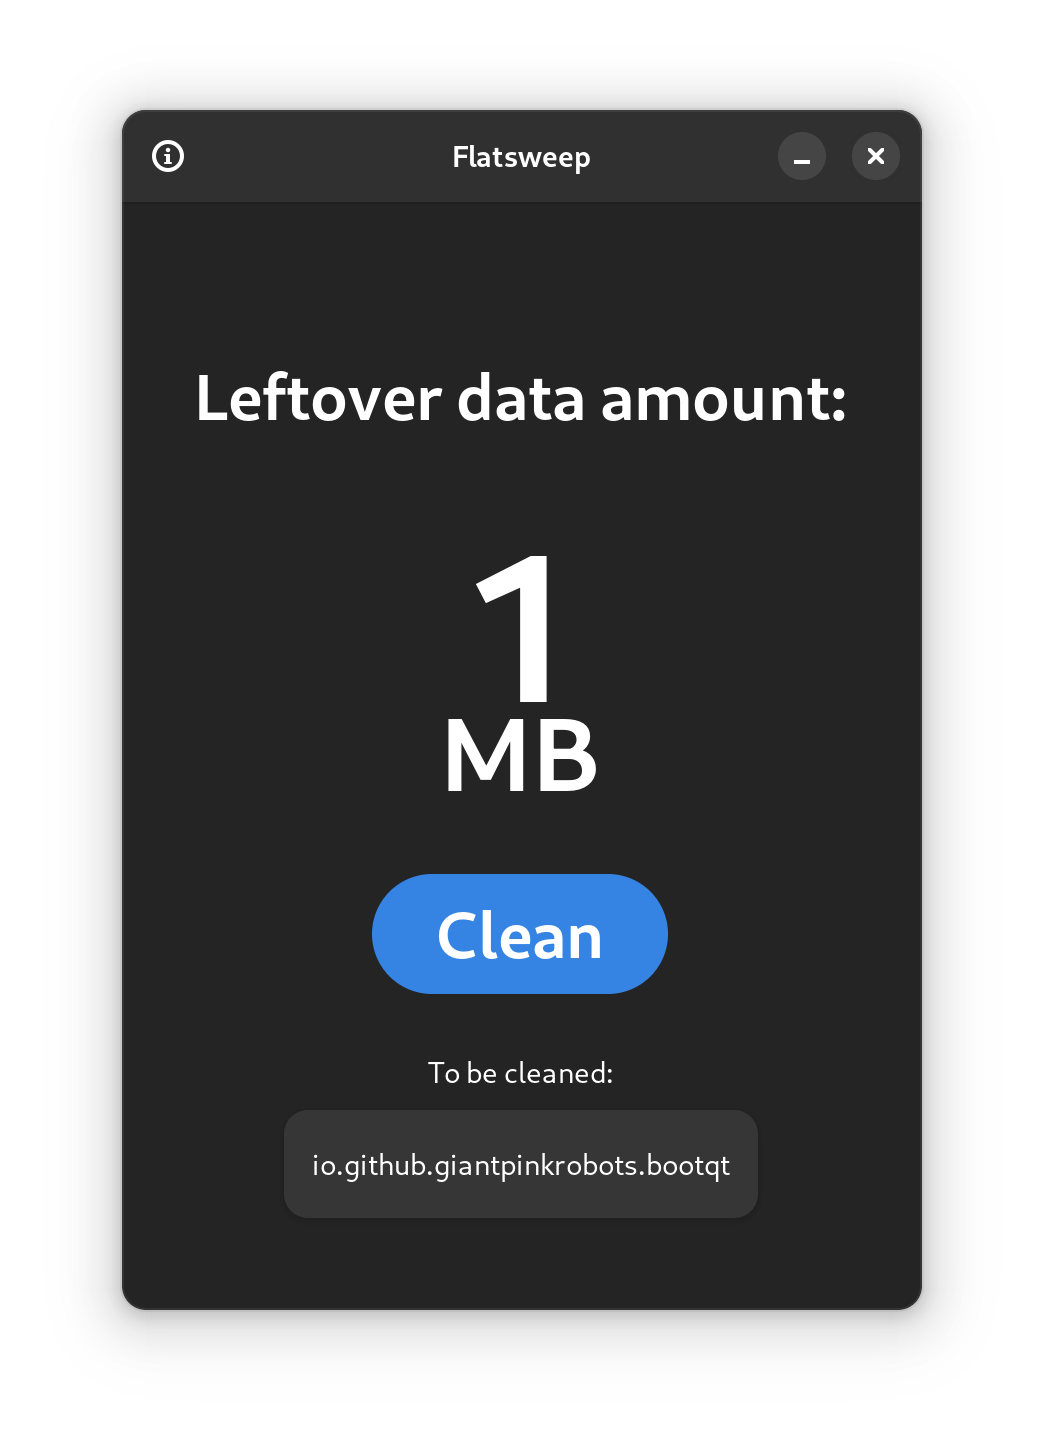
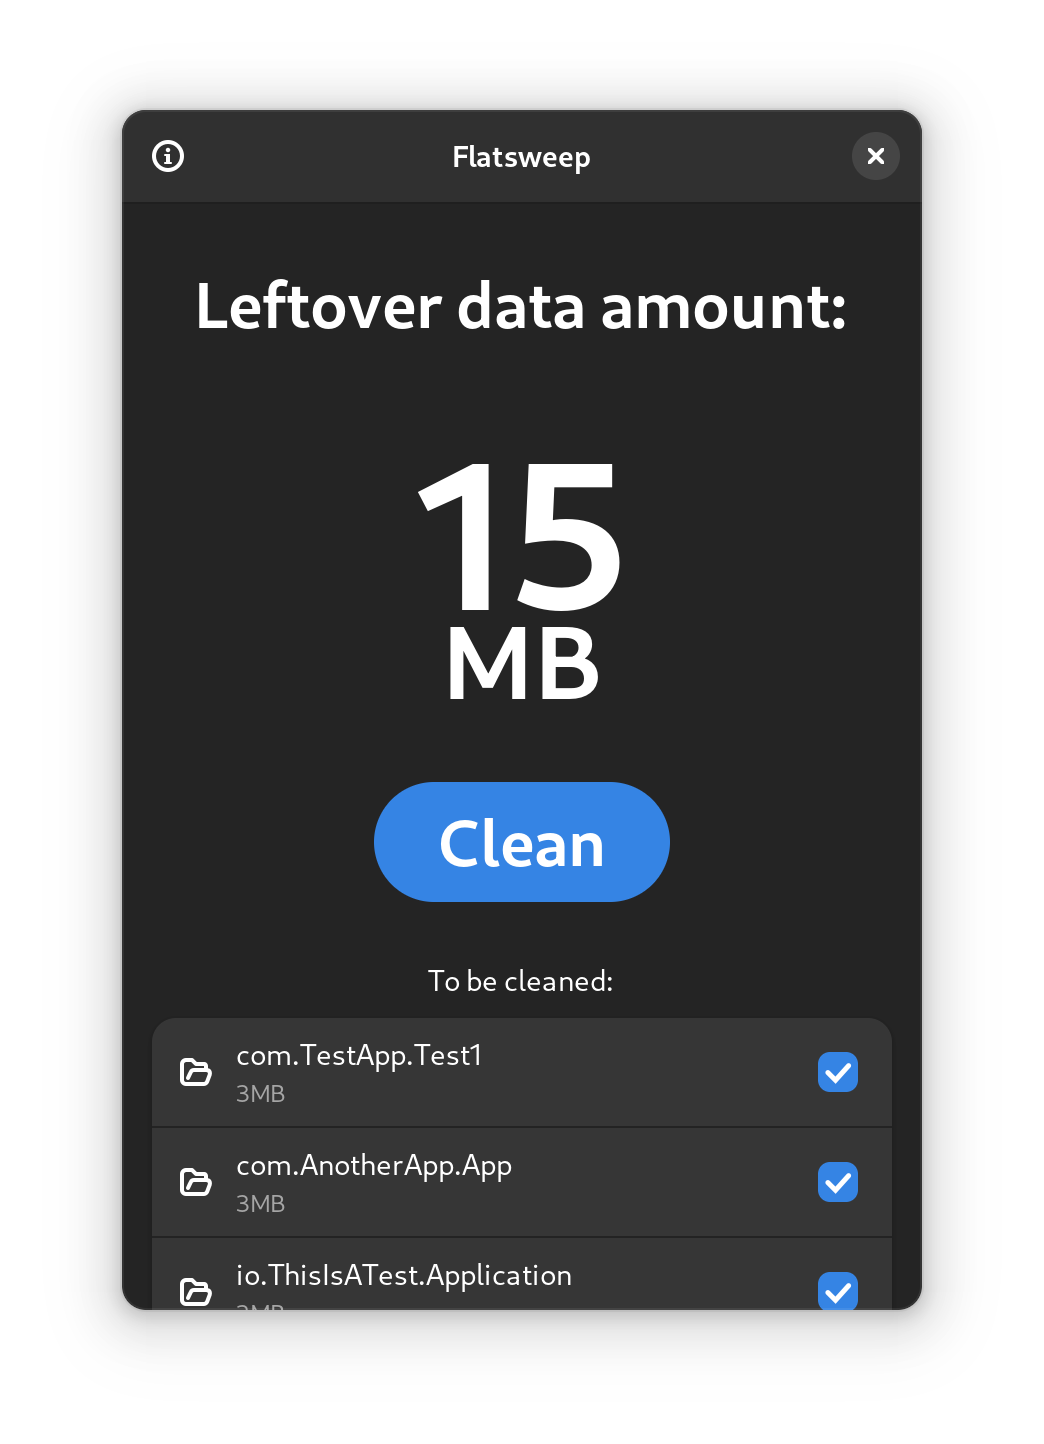
19 August 2023 16:36UTC

diff --git a/src/main.py b/src/main.py
@@ -1,4 +1,4 @@
-flatsweepVersion = "v2023.8.18-test"
+flatsweepVersion = "v2023.8.19-test"
 
 import sys
 import gi
@@ -23,7 +23,6 @@ except:
     locale.setlocale(locale.LC_ALL, "en_US.UTF-8")
 
 currentLanguage = os.getenv("LANG")
-currentLanguage = "en_US"
 
 # TRANSLATIONS BEGIN
 
@@ -44,7 +43,7 @@ class MainWindow(Gtk.ApplicationWindow):
 
         self.leftoverDataSize = 0
         self.deleteErrors = False
-        self.listBoxSwitches = [[],[]]
+        self.listBoxCheckboxes = [[],[]]
 
         self.set_default_size(400, 600)
         self.set_size_request(400, 600)
@@ -260,15 +259,16 @@ class MainWindow(Gtk.ApplicationWindow):
         i = -1
         for folder in self.leftoverData:
             i += 1
-            self.listBoxSwitches.append([])
-            self.listBoxSwitches[i].append(Adw.ActionRow(title=folder + "  ", subtitle=str(self.leftoverDataFileSizes[i]) + "MB"))
-            self.listBoxSwitches[i][0].set_activatable(True)
-            self.listBoxSwitches[i][0].connect("activated", partial(self.openFolder, app=app, index=i))
-            self.listBoxSwitches[i][0].add_prefix(Gtk.Image.new_from_icon_name("folder-open"))
-            self.listBoxSwitches[i].append(Gtk.Switch(valign=Gtk.Align.CENTER))
-            self.listBoxSwitches[i][1].set_active(self)
-            self.listBoxSwitches[i][0].add_suffix(self.listBoxSwitches[i][1])
-            self.listBox.append(self.listBoxSwitches[i][0])
+            self.listBoxCheckboxes.append([])
+            self.listBoxCheckboxes[i].append(Adw.ActionRow(title=folder + "  ", subtitle=str(self.leftoverDataFileSizes[i]) + "MB"))
+            self.listBoxCheckboxes[i][0].set_size_request(370, -1)
+            self.listBoxCheckboxes[i][0].set_activatable(True)
+            self.listBoxCheckboxes[i][0].connect("activated", partial(self.openFolder, app=app, index=i))
+            self.listBoxCheckboxes[i][0].add_prefix(Gtk.Image.new_from_icon_name("folder-open-symbolic"))
+            self.listBoxCheckboxes[i].append(Gtk.CheckButton(valign=Gtk.Align.CENTER))
+            self.listBoxCheckboxes[i][1].set_active(self)
+            self.listBoxCheckboxes[i][0].add_suffix(self.listBoxCheckboxes[i][1])
+            self.listBox.append(self.listBoxCheckboxes[i][0])
 
         self.leftoverDataSize = int(((self.leftoverDataSize / 1024) / 1024) * 1.048576)
         if (self.leftoverDataSize == 0):
@@ -308,9 +308,10 @@ class MainWindow(Gtk.ApplicationWindow):
 
     def clean(self, app):
         cleanedData = 0
-        i = 0
+        i = -1
         for folder in self.leftoverData:
-            if (self.listBoxSwitches[i][1].get_active()):
+            i += 1
+            if (self.listBoxCheckboxes[i][1].get_active()):
                 if (os.path.exists(".var/app/" + folder)):
                     try:
                         dataSize = sum(foundFile.stat().st_size for foundFile in Path('.var/app/' + folder).glob('**/*') if foundFile.is_file())
@@ -325,7 +326,6 @@ class MainWindow(Gtk.ApplicationWindow):
                         cleanedData += dataSize
                     except:
                         self.deleteErrors = True
-            i += 1
 
         cleanedData = int(((cleanedData / 1024) / 1024) * 1.048576)
         self.cleanedLabel.set_markup("<span size=\"80000\" weight=\"bold\">" + str(cleanedData) + "</span>")
